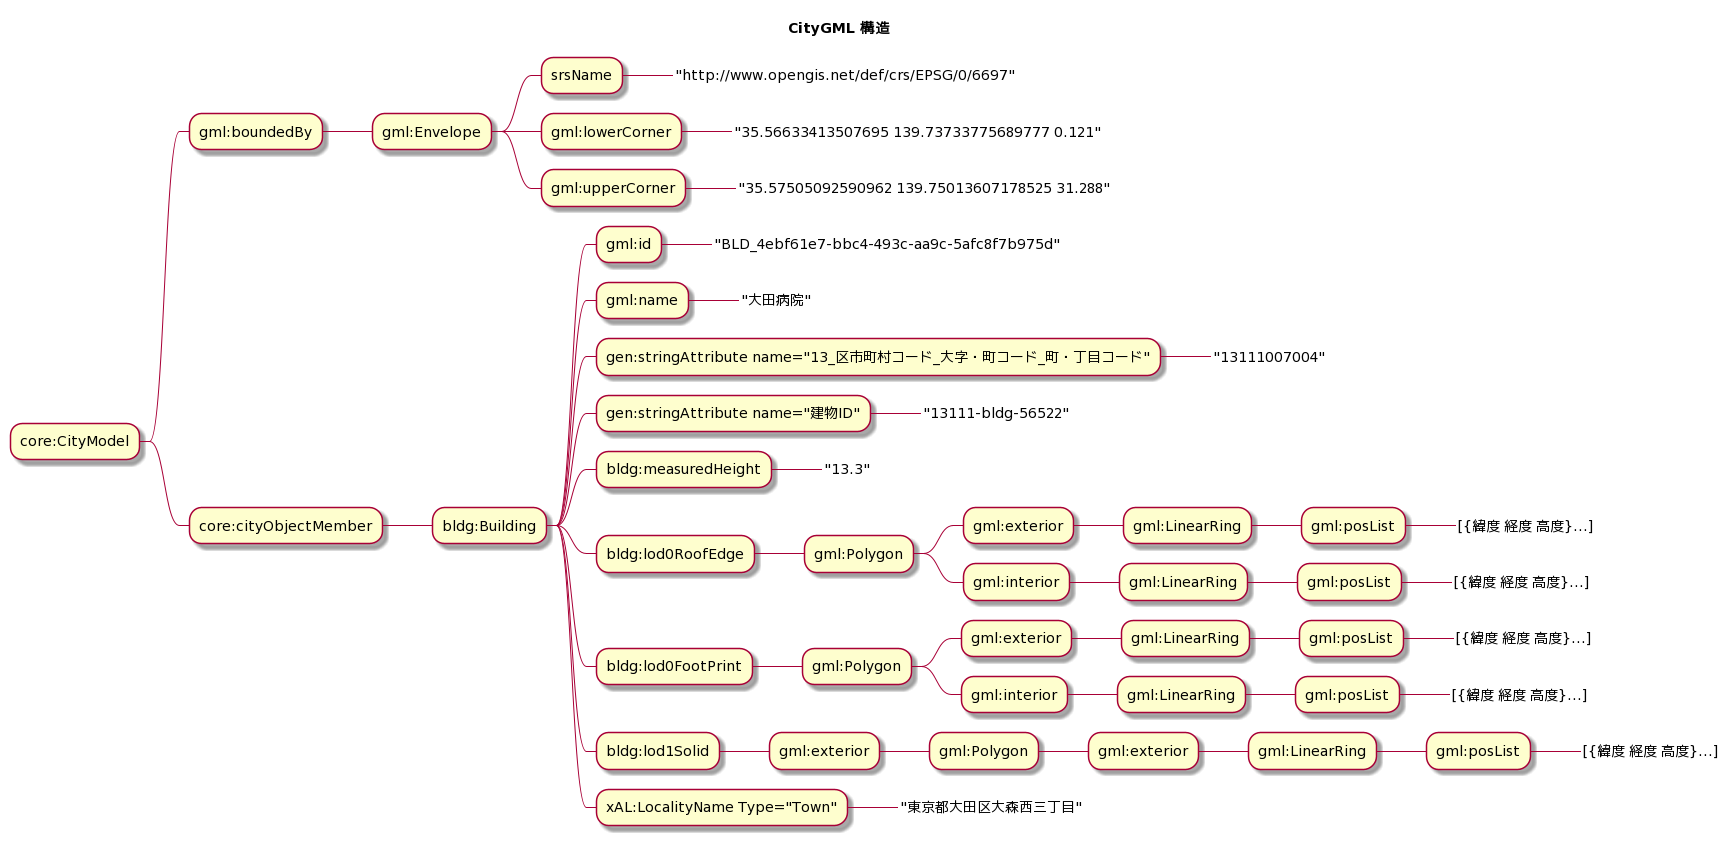
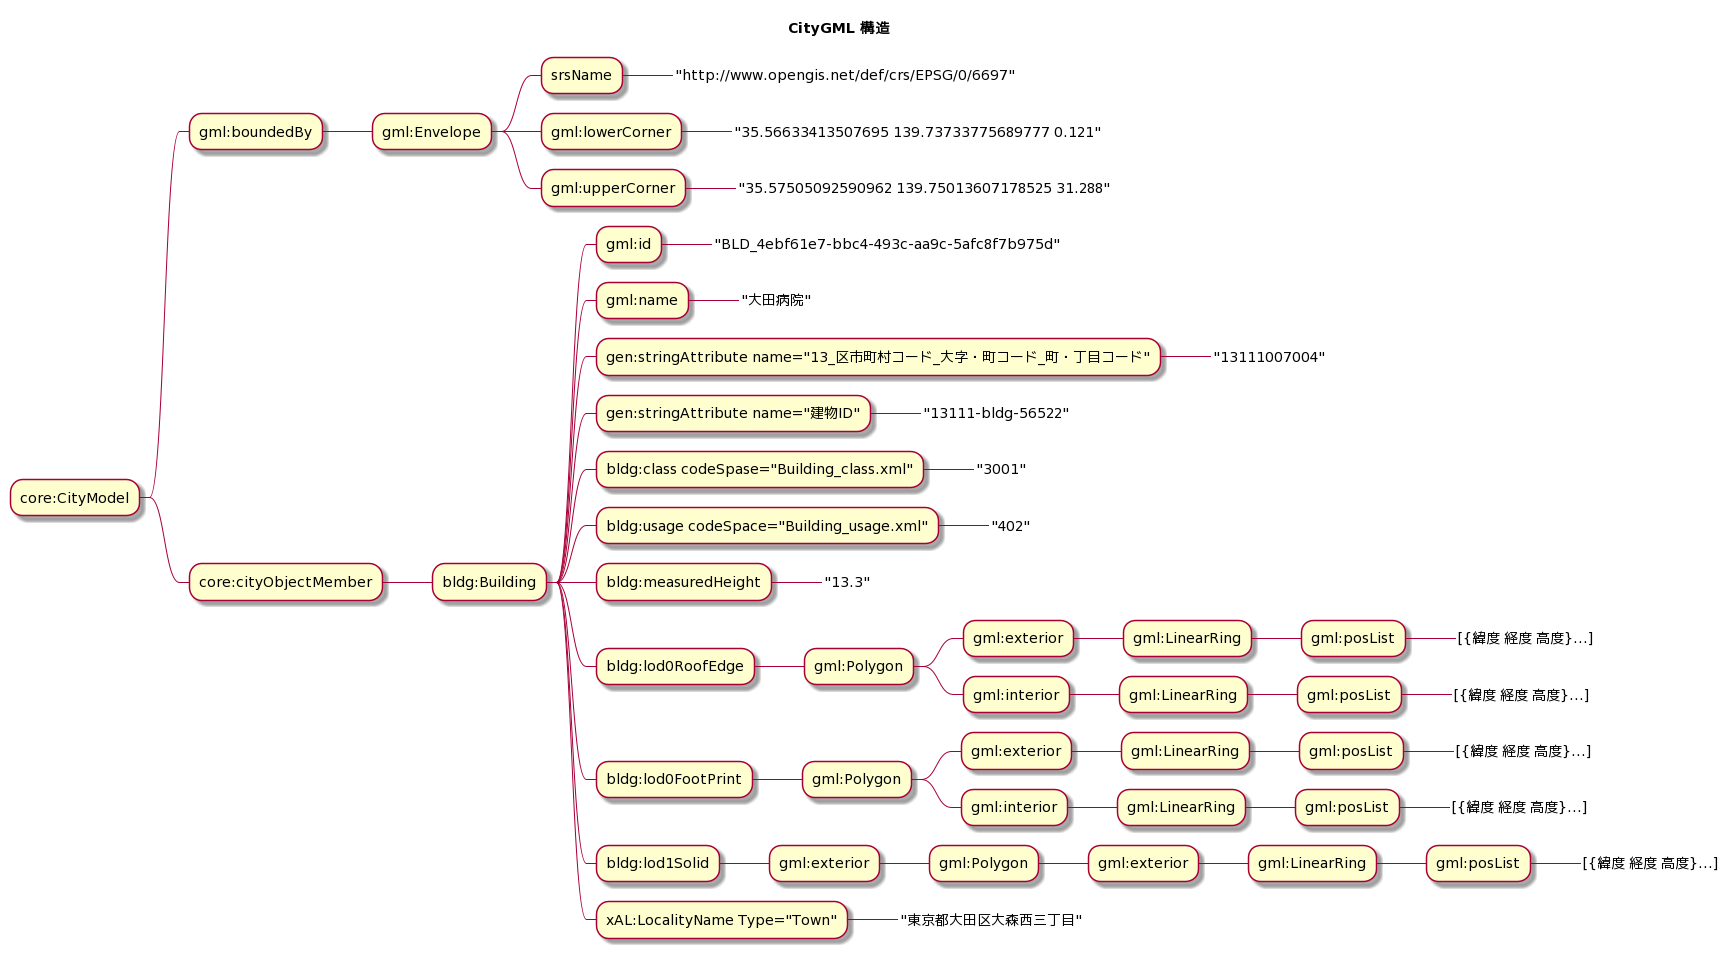
mindmap

Changed region(s): [[0.0937, 0.0, 0.9994, 0.9835], [0.0, 0.4917, 0.0937, 0.5532], [0.7183, 0.3688, 0.7496, 0.4303]]

diff --git a/README.md b/README.md
@@ -111,8 +111,8 @@ CityGMLから、OpenStreetMapへのJOSM用のOSMデータを生成する
 | 名称		| `gml:name`		| 重要な建物にのみ設定されている						|
 | 建物ID		| `gen:stringAttribute`-`name="建物ID"`	| 建築物に付与された識別ID	|
 | 自治体コード	| `gen:stringAttribute`-`name="13_*"`	| "13_区市町村コード_大字・町コード_町・丁目コード" |
-| 分類		| `bldg:class`		| 建築物の形態による区分 コードリスト: '[Building_class.xml](doc/citygml/codelists/Building_class.xml)'	|
-| 用途		| `bldg:usage`		| 建築物の主な使いみち。代表的な用途					|
+| 分類		| `bldg:class`		| 建築物の形態による区分 '[Building_class.xml](doc/citygml/codelists/Building_class.xml)'	|
+| 用途		| `bldg:usage`		| 建築物の主な使いみち。代表的な用途 '[Building_usage.xml](doc/citygml/codelists/Building_usage.xml)'	|
 | 計測高さ	| `bldg:measuredHeight`	| 地盤面からの建築物の高さ(m)				|
 | 住所		| `xAL:LocalityName`-`Type="Town"`	| 							|
 
